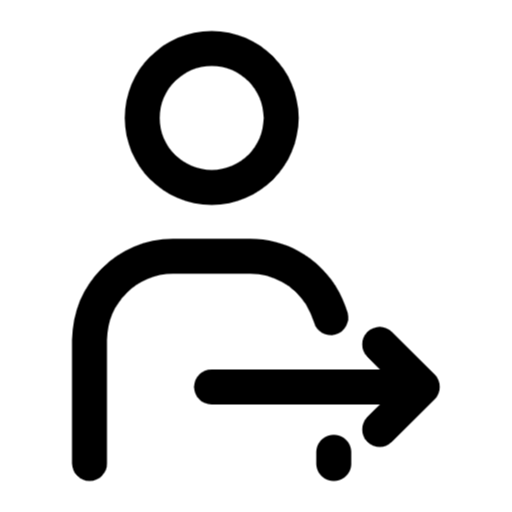
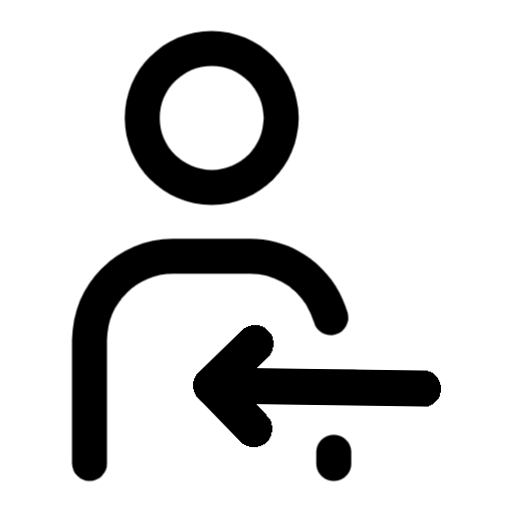
Added cookies to login session Added a logout option Modified navbar for login homepage Logout is not working correctly yet

diff --git a/ClientApp/src/components/Header.js b/ClientApp/src/components/Header.js
@@ -3,6 +3,26 @@ import "../styles/header.css";
 import { Link } from 'react-router-dom';
 import logo from '../assets/images/Star-shlColour.png'
 import login from '../assets/images/login.png'
+import logout from '../assets/images/logout.png'
+import Cookies from 'js-cookie'
+
+ function loginOrlogout() {
+     const myCookieData = Cookies.get('id');
+
+     if (myCookieData != null){
+        return <div className="login-button">
+            <Link to="/Uitloggen"><img src={logout} alt="Uitloggen" /></Link>
+        </div>
+        }
+    else {
+        return <div className="login-button">
+            <Link to="/Inloggen"><img src={login} alt="Inloggen" /></Link>
+        </div>
+    }
+    
+}
+
+
 
 class Header extends React.Component {
     render () {
@@ -11,9 +31,7 @@ class Header extends React.Component {
                 <div className="logo">
                     <Link to="/"><img src={logo} alt="Startpagina"/></Link>
                 </div>
-                <div className="login-button">
-                    <Link to="/Inloggen"><img src={login} alt="Inloggen"/></Link>
-                </div>
+                {loginOrlogout()}
             </div>
         )
     }

diff --git a/ClientApp/src/components/NavBar.js b/ClientApp/src/components/NavBar.js
@@ -4,14 +4,24 @@ import { Link } from 'react-router-dom';
 import home from '../assets/images/home-page.png'
 import info from '../assets/images/info.png'
 import map from '../assets/images/goal.png'
+import Cookies from 'js-cookie'
+
+function Redirect() {
+    const myCookieData = Cookies.get('id');
+    if (myCookieData != null) {
+        return <li><Link to="/HomeEditor"><img src={home} alt="Startpagina" /></Link></li>
+    }
+    else { return <li><Link to="/"><img src={home} alt="Startpagina" /></Link></li>}
+}
 
 class NavBar extends React.Component {
+
     render () {
         return (
             <div className="navbar">
                 <nav>
                     <ul>
-                        <li><Link to="/"><img src={home} alt="Startpagina"/></Link></li>
+                        {Redirect()}
                         <li><Link to="/Informatie"><img src={info} alt="Informatie"/></Link></li>
                         <li><Link to="/Locaties"><img src={map} alt="Locaties"/></Link></li>
                     </ul>

diff --git a/ClientApp/src/components/Main.js b/ClientApp/src/components/Main.js
@@ -7,6 +7,7 @@ import Locations from '../pages/Locations';
 import Login from '../pages/Login'
 import HomeEdit from '../pages/HomePage-Editor'
 import LoggedIn from '../pages/LoggedIn'
+import LoggedOut from '../pages/LoggedOut'
 
 const Main = () => {
   return (
@@ -18,6 +19,8 @@ const Main = () => {
         <Route exact path='/Inloggen' component={Login}></Route>
         <Route exact path='/HomeEditor' component={HomeEdit}></Route>
         <Route exact path='/Ingelogd' component={LoggedIn}></Route>
+        <Route exact path='/Uitloggen' component={LoggedOut}></Route>
+    
       </Switch>
     </div>
   );

diff --git a/ClientApp/src/pages/LoggedOut.js b/ClientApp/src/pages/LoggedOut.js
@@ -1,0 +1,14 @@
+import React from "react";
+import { Redirect } from "react-router";
+
+async function callApi() {
+   await fetch("api/Logout");
+}
+
+
+export default class LoggedOut extends React.Component {
+    render() {
+        {callApi()}
+        return <Redirect to="/" />
+    }   
+}

diff --git a/Startup.cs b/Startup.cs
@@ -7,6 +7,7 @@ using Microsoft.Extensions.DependencyInjection;
 using Microsoft.Extensions.Hosting;
 using Microsoft.EntityFrameworkCore;
 using Git_clone.Models;
+using Microsoft.AspNetCore.Authentication.Cookies;
 
 namespace Git_clone
 {
@@ -22,7 +23,11 @@ namespace Git_clone
         // This method gets called by the runtime. Use this method to add services to the container.
         public void ConfigureServices(IServiceCollection services)
         {
-
+            services.AddAuthentication(CookieAuthenticationDefaults.AuthenticationScheme)
+                .AddCookie(options =>
+                {
+                    options.LoginPath = "/Controllers/LoginController";
+                });
             services.AddDbContext<DatabaseContext>(
                 opt => opt.UseNpgsql(@"Host=145.24.222.54; Username=postgres;Password=team6;Database=postgres;Port=8011;")
 
@@ -54,8 +59,9 @@ namespace Git_clone
             app.UseHttpsRedirection();
             app.UseStaticFiles();
             app.UseSpaStaticFiles();
-
             app.UseRouting();
+            app.UseAuthentication();
+            app.UseAuthorization();
 
             app.UseEndpoints(endpoints =>
             {

diff --git a/Controllers/LoginController.cs b/Controllers/LoginController.cs
@@ -4,6 +4,7 @@ using System.Text.Json;
 using Git_clone.Models;
 using System.Collections.Generic;
 using System.Linq;
+using System;
 
 namespace Git_clone.Controllers
 {
@@ -23,8 +24,15 @@ namespace Git_clone.Controllers
         {
             var users = _databaseContext.Users.ToList();
             User userInfo = new();
+            Random rand = new Random();
+
             if (users.FirstOrDefault(x => x.Email == loginInfo.Email && x.Password == loginInfo.Password) is User user)
             {
+                HttpContext.Response.Cookies.Append("id", rand.Next().ToString(), new CookieOptions
+                {
+                    Expires = System.DateTimeOffset.Now.AddDays(1)
+                });
+
                 var jsonUser = JsonSerializer.Serialize(user);
                 return Ok(jsonUser);
             }

diff --git a/Controllers/LogoutController.cs b/Controllers/LogoutController.cs
@@ -1,0 +1,20 @@
+using Microsoft.AspNetCore.Http;
+using Microsoft.AspNetCore.Mvc;
+
+namespace Git_clone.Controllers
+{
+    [Route("api/[controller]")]
+    [ApiController]
+
+    
+    public class LogoutController : ControllerBase
+    {
+        [HttpGet]
+        public void Logout()
+        {
+            HttpContext.Response.Cookies.Delete("id");
+        }
+
+
+    }
+}
